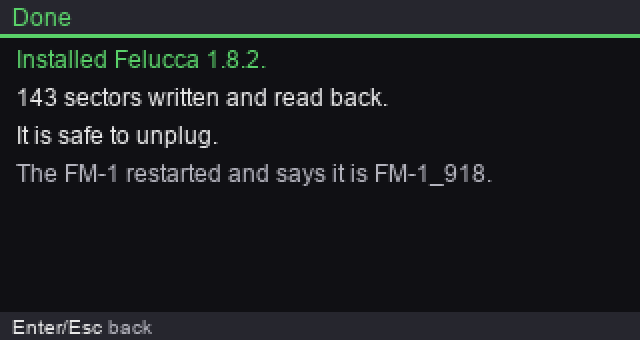
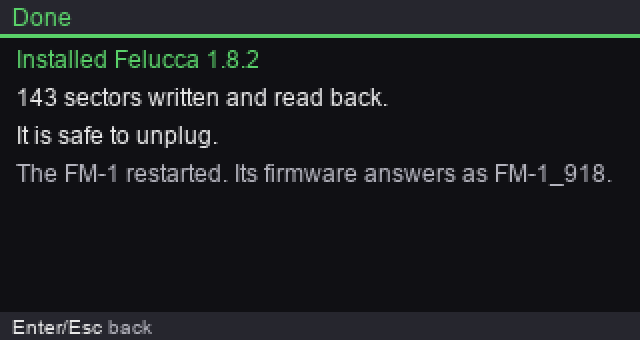
Keys for the real keyboard, bootloader gate, jury round 2 and 3 fixes
- Move with F/X/Z/C (the CardputerZero's arrow keys, with or without Fn);
  every shortcut is a plain letter. Layout from M5Stack's Emulator.
- Stock-bootloader FM-1: a separate warning screen with its own hold
  before the install question; unchecked units are sent to check first.
- Wait for the download-mode keys when the firmware doesn't answer.
- Show a firmware by the name it was installed by; name backups by it.
- This-unit-only filter by flash chip.
- Screen fixes from jury rounds 2 and 3.

Changed region(s): [[0.3438, 0.4706, 0.9688, 0.5588]]

diff --git a/fm1zero/ui.py b/fm1zero/ui.py
@@ -3,7 +3,7 @@
 Screens are a stack: Enter goes in, Esc comes back. Anything that writes to the
 FM-1 or deletes a file asks first, and wants Enter held for two seconds.
 
-Keys in a list: arrows (or ; and .) move, Enter opens, Esc (or `) goes back.
+Keys in a list: F and X move (the arrows, with or without Fn), Enter opens, Esc goes back.
 """
 
 from __future__ import annotations
@@ -19,12 +19,18 @@ from PIL import Image, ImageDraw, ImageFont
 
 from . import __version__, boot, catalogue, device, jobs, pkg as pkgmod
 from .hw import H, W
+from .rom import FM1_FLASHES
 from .store import Saved, Store
 
 BG, FG, DIM, ACCENT, BAR, BAD, GOOD = "#101014", "#e8e8e8", "#b4b4be", "#ffb000", "#26262e", "#ff5a4a", "#5ad26a"
-MAP_COLOURS = ["#26262e", "#ffb000", "#5ad26a", "#3f8f4c", "#3fb6d6", "#ff5a4a"]
+MAP_COLOURS = ["#26262e", "#ffb000", "#5ad26a", "#4a9a8c", "#3fb6d6", "#ff5a4a"]
 LABEL_W = 86  # where a "label<tab>value" line's value starts
 HOLD_S = 2.0
+FLASH_NAMES = {"%06X" % ident: name for ident, name in FM1_FLASHES.items()}
+# Moving. The CardputerZero has no arrow keys of its own: they are Fn + F, X, Z and C. The same four
+# keys move here without Fn too, so nothing needs a layer. (; and . are kept for a USB keyboard.)
+UP, DOWN = ("up", "f", "F", ";"), ("down", "x", "X", ".")
+LEFT, RIGHT = ("left", "pageup", "z", "Z"), ("right", "pagedown", "c", "C")
 ROWS = 8
 ROW_H = 16
 TOP = 20
@@ -175,7 +181,7 @@ class Screen:
         pass
 
     def key(self, app, key: str) -> None:
-        if key in ("esc", "`"):
+        if key == "esc":
             app.pop()
 
     def release(self, app, key: str) -> None:
@@ -186,7 +192,7 @@ class Screen:
 
 
 class ListScreen(Screen):
-    hint = "Enter open  Esc back"
+    hint = "F/X move  Enter open  Esc back"
     hint2 = ""  # a second row of keys, above the first, for the screens with many
 
     def __init__(self, title: str, items: list[Item] | None = None, empty: str = "Nothing here."):
@@ -224,13 +230,13 @@ class ListScreen(Screen):
 
     def key(self, app, key: str) -> None:
         items = self.items(app)
-        if key in ("up", ";"):
+        if key in UP:
             self.sel = (self.sel - 1) % max(1, len(items))
-        elif key in ("down", "."):
+        elif key in DOWN:
             self.sel = (self.sel + 1) % max(1, len(items))
-        elif key in ("pageup", "left"):
+        elif key in LEFT:
             self.sel = max(0, self.sel - ROWS)
-        elif key in ("pagedown", "right"):
+        elif key in RIGHT:
             self.sel = min(max(0, len(items) - 1), self.sel + ROWS)
         elif key == "enter" and items and items[self.sel].action:
             items[self.sel].action(app, items[self.sel])
@@ -258,7 +264,7 @@ class TextScreen(Screen):
         return " ".join(text for text, _colour in self.parts)
 
     def draw(self, app, c: Canvas) -> None:
-        c.frame(self.title, self.hint + ("  ;/. scroll" if self.more else ""), colour=self.title_colour)
+        c.frame(self.title, ("F/X scroll  " if self.more else "") + self.hint, colour=self.title_colour)
         shown, total = c.sections(self.parts, self.top)
         self.more = total > shown or self.top > 0
         self.top = max(0, min(self.top, total - 1))
@@ -267,9 +273,9 @@ class TextScreen(Screen):
     def key(self, app, key: str) -> None:
         if key.lower() in self.keys:
             self.keys[key.lower()](app)
-        elif key in ("up", ";"):
+        elif key in UP:
             self.top = max(0, self.top - 1)
-        elif key in ("down", ".") and self.more:
+        elif key in DOWN and self.more:
             self.top += 1
         elif key == "enter" and self.on_enter:
             self.on_enter(app)
@@ -375,13 +381,13 @@ class Work(Screen):
                 c.d.text((8, 92 + i * 14), line, font=c.font, fill=ACCENT)
             failed = sum(1 for state in p.states if state == 5)
             if failed:
-                c.d.text((8, 124), "%d sector%s failed: trying again" % (failed, "" if failed == 1 else "s"),
-                         font=c.font, fill=BAD)
+                c.d.text((8, 124), "%d sector%s retrying" % (failed, "" if failed == 1 else "s"),
+                         font=c.font, fill=ACCENT)
             for s in range(256):  # the flash: 16 x 16 sectors of 4 KiB
                 x, y = W - 104 + (s % 16) * 6, TOP + 4 + (s // 16) * 6
                 c.d.rectangle([x, y, x + 4, y + 4], fill=MAP_COLOURS[min(p.states[s], 5)])
             x = W - 104
-            for colour, word in ((MAP_COLOURS[2], "wrote"), (MAP_COLOURS[3], "same"), (MAP_COLOURS[5], "failed")):
+            for colour, word in ((MAP_COLOURS[2], "wrote"), (MAP_COLOURS[3], "same"), (MAP_COLOURS[5], "retry")):
                 c.d.rectangle([x, 126, x + 4, 130], fill=colour)
                 c.d.text((x + 7, 122), word, font=c.small, fill=DIM)
                 x += 10 + c.small.getlength(word)
@@ -412,9 +418,10 @@ class Work(Screen):
             parts = [("Stopped part way: the FM-1 is half written.", BAD),
                      ("Keep it on and plugged in. Press R to run it again now.", FG),
                      ("If it gets switched off and won't start: " + how, DIM),
-                     (self.result, DIM)]
+                     ("Detail: " + self.result, DIM)]
             keys = {"r": lambda app: (app.pop(), self.again(app))} if self.again else {}
-            return TextScreen("Failed", parts, hint=("R run it again  " if self.again else "") + "Esc back",
+            return TextScreen("Failed", parts,
+                              hint=("R run it again  " if self.again else "") + "Esc leave it half written",
                               title_colour=BAD, keys=keys, enter_leaves=False)
         return TextScreen("Failed", [("Nothing was written to the FM-1." if self.with_map else "It didn't work.", BAD),
                                      (self.result, FG)], hint="Enter/Esc back", title_colour=BAD)
@@ -525,8 +532,8 @@ class Picture(Screen):
 class Browse(ListScreen):
     """The Hub's list (Discover), or only what is downloaded."""
 
-    hint = ";/. move  Enter open  Esc back  Tab saved"
-    hint2 = "/ find  G grid  F fav  S sort  K kind  U unit"
+    hint = "F/X move  Enter open  Esc back  Tab saved"
+    hint2 = "S find  G grid  L fav  O sort  K kind  U unit"
 
     def __init__(self, downloaded: bool = False):
         super().__init__("")
@@ -545,7 +552,7 @@ class Browse(ListScreen):
         out = []
         if self.downloaded:
             self.title = "Downloaded"
-            self.hint, self.hint2 = ";/. move  Enter open  Esc back", "/ find  F fav  Tab Discover"
+            self.hint, self.hint2 = "F/X move  Enter open  Esc back", "S find  L fav  Tab Discover"
             self.empty = "No packages yet. Download one from Discover, or copy .fwsc files into packages/."
             words = f["search"].lower().split()
             for saved in app.store.packages():
@@ -578,19 +585,19 @@ class Browse(ListScreen):
     def key(self, app, key: str) -> None:
         f = app.filters
         items = self.items(app)
-        if key == "/":
+        if key in ("s", "S", "/"):
             app.push(Search(lambda text: f.update(search=text), f["search"]))
         elif key == "tab":
             app.pop()
             app.push(Browse(not self.downloaded))
         elif key in ("g", "G") and not self.downloaded:
             self.swap(app, Grid(False))
-        elif key in ("s", "S") and not self.downloaded:
+        elif key in ("o", "O") and not self.downloaded:
             f["sort"] = catalogue.SORTS[(catalogue.SORTS.index(f["sort"]) + 1) % len(catalogue.SORTS)]
         elif key in ("k", "K") and not self.downloaded:
             kinds = [""] + catalogue.kinds(app.entries)
             f["kind"] = kinds[(kinds.index(f["kind"]) + 1) % len(kinds)] if f["kind"] in kinds else ""
-        elif key in ("f", "F") and items:
+        elif key in ("l", "L") and items:
             data = items[self.sel].data
             ident = data.meta.get("id") if isinstance(data, Saved) else data["id"]
             if ident:
@@ -611,7 +618,7 @@ class Grid(Browse):
     """Discover as pictures: three across, two down. The same list, filters and keys as the list view."""
 
     live = True
-    hint = "Arrows move  Enter open  G list  Esc back"
+    hint = "F/X/Z/C move  Enter open  G list  Esc back"
     hint2 = ""
 
     def draw(self, app, c: Canvas) -> None:
@@ -645,13 +652,13 @@ class Grid(Browse):
 
     def key(self, app, key: str) -> None:
         count = max(1, len(self.items(app)))
-        if key == "left":
+        if key in ("left", "z", "Z"):
             self.sel = (self.sel - 1) % count
-        elif key == "right":
+        elif key in ("right", "c", "C"):
             self.sel = (self.sel + 1) % count
-        elif key in ("up", ";"):
+        elif key in UP:
             self.sel = max(0, self.sel - COLS)
-        elif key in ("down", "."):
+        elif key in DOWN:
             self.sel = min(count - 1, self.sel + COLS)
         elif key in ("pageup", "pagedown"):
             self.sel = max(0, min(count - 1, self.sel + (COLS * GRID_ROWS if key == "pagedown" else -COLS * GRID_ROWS)))
@@ -766,7 +773,7 @@ def start_download(app, e: dict) -> None:
 def said(result) -> list:
     """What to tell the user once the FM-1 has restarted: blocks of (text, colour)."""
     if result.after:
-        return [("It is safe to unplug.", FG), ("The FM-1 restarted and says it is %s." % result.after, DIM)]
+        return [("It is safe to unplug.", FG), ("The FM-1 restarted. Its firmware answers as %s." % result.after, DIM)]
     return [("The FM-1 didn't answer after restarting: look at its own screen.", ACCENT)]
 
 
@@ -805,7 +812,7 @@ def install_question(app, saved: Saved) -> None:
         work.say("Writing " + name)
         result = device.install(package, rule, work.report, work.say)
         app.saw(result, installed=name)
-        return [("Installed %s." % name, GOOD),
+        return [("Installed %s" % name, GOOD),
                 ("%d sectors written and read back." % result.written, FG)] + said(result)
 
     def start(app):
@@ -839,7 +846,7 @@ def start_backup(app, _item=None) -> None:
 
 
 class Backups(ListScreen):
-    hint = "Enter options  Esc back"
+    hint = "F/X move  Enter options  Esc back"
 
     def __init__(self):
         super().__init__("Backups", empty="No backups yet. Choose Create backup on the first screen.")
@@ -885,8 +892,9 @@ def show_device(app, _item=None) -> None:
         chip = result.chip
         app.saw(result)
         return [("FM-1 checked. Nothing was written.", GOOD),
-                ("Firmware\t%s\nBootloader\t%s\nRecovery\t%s" % (
-                    app.firmware_name() or "(no answer)", result.bootloader_text,
+                ("Firmware\t%s\nAnswers as\t%s\nBootloader\t%s\nRecovery\t%s" % (
+                    app.firmware_name() or "(no answer)", result.after or result.before or "(no answer)",
+                    result.bootloader_text,
                     boot.RECOVERY[result.bootloader].replace("Recovery: ", "")), FG),
                 ("Flash chip\t%s, %06X%s\nSize\t%d KiB\nChip key\t%04X\nChip ID\t%s\nBoot ROM\t%s\nLoader\t%s, "
                  "%d MHz\nWritable\t%s" % (
@@ -902,16 +910,19 @@ def show_device(app, _item=None) -> None:
     except Exception as e:
         state, detail = "error", str(e)
     st = app.store.state
-    now = {"firmware": "plugged in, says it is %s" % detail, "rom": "plugged in, in download mode",
+    now = {"firmware": "plugged in", "rom": "plugged in, in download mode",
            "none": "not found on USB", "error": "USB couldn't be looked at: %s" % detail}[state]
     pairs = "Now\t%s" % now
     if app.firmware_name():
         pairs += "\nFirmware\t%s" % app.firmware_name()
+    if state == "firmware" or st["identity"]:
+        pairs += "\nAnswers as\t%s" % (detail if state == "firmware" else st["identity"])
     if st["bootloader"]:
         pairs += "\nBootloader\t%s\nRecovery\t%s" % (st["bootloader_text"],
                                                       boot.RECOVERY[st["bootloader"]].replace("Recovery: ", ""))
     if st.get("flash"):
-        pairs += "\nFlash chip\t%s%s" % (st["flash"], " (newer)" if st["flash"] == "B36014" else "")
+        pairs += "\nFlash chip\t%s, %s%s" % (FLASH_NAMES.get(st["flash"], "unknown"), st["flash"],
+                                             " (newer)" if st["flash"] == "B36014" else "")
     parts = [(pairs, FG),
              ("Enter asks its chip what it is. That restarts the FM-1 (unsaved work on it is lost) and writes "
               "nothing.", DIM)]
@@ -953,7 +964,7 @@ def home_items(app) -> list[Item]:
 
 
 class Home(ListScreen):
-    hint = ";/. move  Enter open"
+    hint = "F/X move  Enter open"
 
     def __init__(self):
         super().__init__("FM-1 Zero")
@@ -965,7 +976,7 @@ class Home(ListScreen):
         return "v" + __version__
 
     def key(self, app, key: str) -> None:
-        if key not in ("esc", "`"):
+        if key != "esc":
             super().key(app, key)
 
 
@@ -1005,7 +1016,7 @@ class App:
         st = self.store.state
         chosen = st.get("installed") or {}
         if chosen.get("name") and chosen.get("identity") == st["identity"]:
-            return "%s (%s)" % (chosen["name"], st["identity"]) if st["identity"] else chosen["name"]
+            return chosen["name"]
         return st["identity"]
 
     def saw(self, result, installed: str = "") -> None:

diff --git a/tests/test_ui.py b/tests/test_ui.py
@@ -76,7 +76,7 @@ class UiTests(unittest.TestCase):
                          ["Sample Synth", "Evil", "External Installer"])
         press(app, "/", "g", "r", "o", "o", "v", "e", "enter")
         self.assertEqual([i.label for i in app.stack[-1].items(app)], ["External Installer"])
-        press(app, "/", *["backspace"] * 6, "enter", "f")
+        press(app, "s", *["backspace"] * 6, "enter", "l")
         self.assertEqual(app.store.favourites, {"sample-fw"})
         press(app, "esc", "esc", "esc")
         self.assertIsInstance(app.stack[-1], ui.Home)
@@ -319,7 +319,7 @@ class UiTests(unittest.TestCase):
         clock.t += 2.1
         app.step(0)
         finish(app)
-        self.assertEqual(app.firmware_name(), "Sample Synth 1.2.3 (FM-1_123)")
+        self.assertEqual(app.firmware_name(), "Sample Synth 1.2.3")
         app.home()
         ui.start_backup(app)
         finish(app)
@@ -342,6 +342,26 @@ class UiTests(unittest.TestCase):
         app.store.state["flash"] = ""
         press(app, "u")
         self.assertEqual(app.stack[-1].title, "This unit only")  # not known yet: says how to find out
+    def test_everything_works_from_keys_the_cardputerzero_has_without_a_layer(self):
+        """Letters, Enter, Esc and Tab only: no arrows, no ; . or /."""
+        app, _ = make_app(self.dir.name)
+        press(app, "x", "x", "f")
+        self.assertEqual(app.stack[-1].sel, 1)  # down, down, up
+        press(app, "f", "enter")
+        self.assertIsInstance(app.stack[-1], ui.Browse)
+        press(app, "x")
+        self.assertEqual(app.stack[-1].sel, 1)
+        press(app, "o")
+        self.assertEqual(app.filters["sort"], "name")
+        press(app, "g", "c", "z", "c")
+        self.assertIsInstance(app.stack[-1], ui.Grid)
+        self.assertEqual(app.stack[-1].sel, 2)
+        press(app, "g", "tab")
+        self.assertTrue(app.stack[-1].downloaded)
+        press(app, "esc")
+        self.assertIsInstance(app.stack[-1], ui.Home)
+        for screen_hint in (ui.Home.hint, ui.Browse.hint, ui.Browse.hint2, ui.Grid.hint):
+            self.assertFalse(set(";./`") & set(screen_hint.replace("F/X/Z/C", "").replace("F/X", "")), screen_hint)
 
 if __name__ == "__main__":
     unittest.main()

diff --git a/README.md b/README.md
@@ -10,7 +10,7 @@ this is a Python app instead of firmware.
 
 ![The app's screens at 320x170, with stand-in art for the firmware pictures](shots/sheet.png)
 
-**Status: not yet run on real hardware.** The logic passes 76 tests against a pretend FM-1, the package reader matches
+**Status: not yet run on real hardware.** The logic passes 77 tests against a pretend FM-1, the package reader matches
 two real maker releases, and the catalogue code has read the real Hub list. The USB side has never touched an FM-1.
 Follow [First run](#first-run-prove-it-in-this-order) before trusting it.
 
@@ -108,7 +108,7 @@ The `packaging/` folder is laid out as its Python example's is. This has not bee
 Do [Recovery](#recovery-set-this-up-before-the-first-install) first. Then do these over SSH, with the FM-1 plugged into the CardputerZero by a data cable and switched on. Each step risks
 more than the one before, so stop at the first one that goes wrong and send me what it printed.
 
-1. `python3 -m unittest discover -s tests -t .` : the 76 tests pass on the CardputerZero itself.
+1. `python3 -m unittest discover -s tests -t .` : the 77 tests pass on the CardputerZero itself.
 2. `python3 -m fm1zero status` : lists MIDI devices and what the FM-1 says it is. Writes nothing, restarts nothing.
 3. `python3 -m fm1zero info` : sends the FM-1 to its boot loader, loads the flash loader into its RAM, asks the chip
    what it is, and restarts it. Writes nothing to flash. This proves the whole USB path.
@@ -130,24 +130,29 @@ and a backup from a different FM-1 are each refused with nothing written.
 
 | Key | Does |
 |---|---|
-| Arrows, or `;` and `.` | move |
+| `F` and `X` | up and down. These are the arrow keys (Fn + F, Fn + X); they work with or without Fn |
+| `Z` and `C` | left and right in the grid, a page up and down in a list |
 | Enter | open, choose |
-| Esc or `` ` `` | back |
-| `/` | search (Discover and Downloaded) |
-| `F` | favourite the highlighted firmware |
+| Esc | back |
+| `S` | search (Discover and Downloaded) |
 | `G` | Discover as a grid of pictures, and back |
-| `P` | on a firmware's page: its picture |
-| `S` | sort: popular, name |
+| `L` | favourite the highlighted firmware |
+| `O` | sort: popular, name |
 | `K` | show one kind (synth, drums, groove ...) |
 | `V` | favourites only |
 | `U` | this unit only: hides firmwares that don't suit your FM-1's flash chip |
+| `P` | on a firmware's page: its picture |
 | Tab | switch Discover and Downloaded |
 | **Hold Enter 2 s** | confirm an install, a restore or a delete. Esc cancels |
 | `B` | on the install question: make a backup first |
 | `R` | after a write that stopped part way: run it again. Enter does nothing there, on purpose |
 
-The key names assume the CardputerZero's keyboard looks like an ordinary keyboard to Linux. If a key does nothing,
-that mapping (`fm1zero/hw.py`) is the place to look.
+Every key is on the CardputerZero's base layer: letters, Enter, Esc and Tab. Nothing needs Fn or Sym. The layout
+is taken from M5Stack's [Emulator](https://github.com/CardputerZero/Emulator) (`src/keyboard_map.h`), which has
+the arrows on Fn + F, X, Z, C and `;` `.` `/` on the Sym layer.
+
+That layout comes from the emulator, not from a real unit. If a key does nothing on yours, the mapping in
+`fm1zero/hw.py` is the place to look.
 
 Files live in `~/.local/share/fm1zero/`: `packages/`, `backups/`, `cards/` (pictures, kept once fetched),
 `catalogue.json`, `state.json`.
